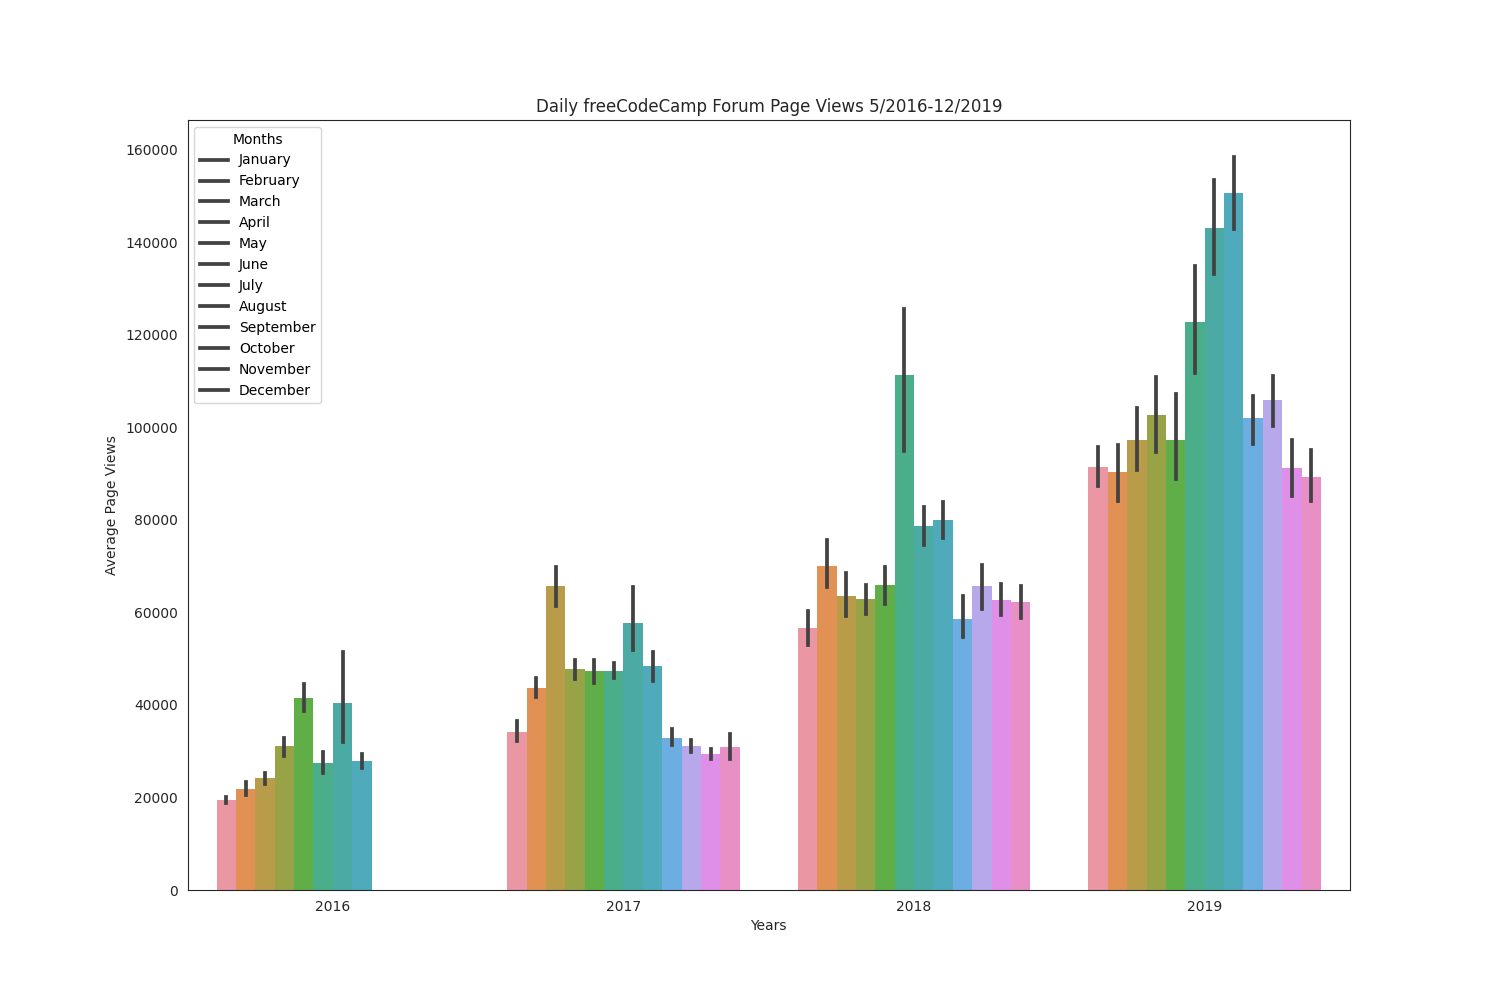
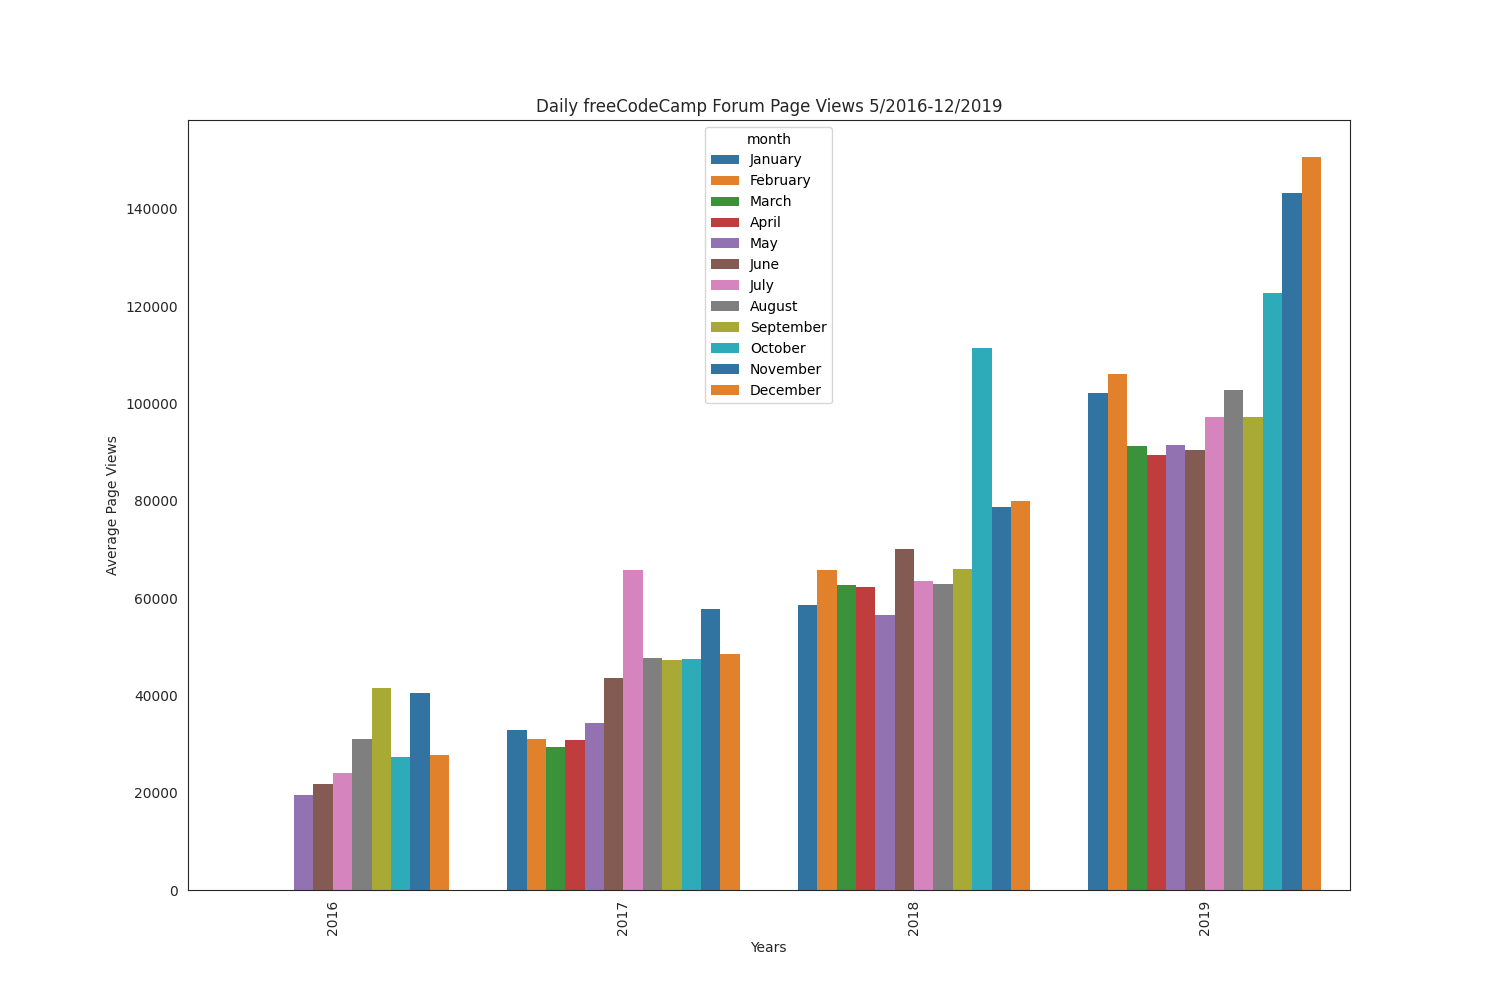
chore(test): refactor code and graph improvement

diff --git a/Python for Data Analysis/Page View Time Series Visualizer/time_series_visualizer.py b/Python for Data Analysis/Page View Time Series Visualizer/time_series_visualizer.py
@@ -5,26 +5,26 @@ from pandas.plotting import register_matplotlib_converters
 
 register_matplotlib_converters()
 
-# Import data (Make sure to parse dates. Consider setting index column to 'date'.)
-df = pd.read_csv('fcc-forum-pageviews.csv', parse_dates=['date'], index_col='date')
+# Import data (Make sure to parse dates. Consider setting index column to "date".)
+df = pd.read_csv("fcc-forum-pageviews.csv", parse_dates=["date"], index_col="date")
 
 # Clean data
-df = df.loc[(df['value'] >= df['value'].quantile(0.025)) & (df['value'] <= df['value'].quantile(0.975))]
+df = df.loc[(df["value"] >= df["value"].quantile(0.025)) & (df["value"] <= df["value"].quantile(0.975))]
 
 
 def draw_line_plot():
     # Draw line plot
 
     with sns.axes_style("white"):
-        fig, ax = plt.subplots(figsize=(7, 5))
+        fig, ax = plt.subplots(figsize=(30, 15), dpi=100)
 
-    ax = sns.lineplot(x='date', y='value', data=df)
-    ax.set_title('Daily freeCodeCamp Forum Page Views 5/2016-12/2019')
-    ax.set_xlabel('Date')
-    ax.set_ylabel('Page Views')
+    ax = sns.lineplot(x="date", y="value", data=df)
+    ax.set_title("Daily freeCodeCamp Forum Page Views 5/2016-12/2019")
+    ax.set_xlabel("Date")
+    ax.set_ylabel("Page Views")
 
-    # Save image and return fig (don't change this part)
-    fig.savefig('line_plot.png')
+    # Save image and return fig (don"t change this part)
+    fig.savefig("line_plot.png")
     return fig
 
 
@@ -34,20 +34,24 @@ def draw_bar_plot():
     df_bar["year"] = df.index.year
     df_bar["month"] = df.index.month_name()
 
+    df_bar = pd.DataFrame(df_bar.groupby(["year", "month"], sort=False)["value"].mean().round().astype(int))
+    df_bar = df_bar.reset_index()
+
+    hue_order = ["January", "February", "March", "April", "May", "June", "July", "August", "September", "October",
+                 "November", "December"]
 
     with sns.axes_style("white"):
         fig, ax = plt.subplots(figsize=(15, 10))
     # Draw bar plot
-    ax = sns.barplot(x='year', y='value', hue='month', data=df_bar)
-    ax.legend(labels=
-        ['January', 'February', 'March', 'April', 'May', 'June', 'July', 'August', 'September', 'October', 'November',
-         'December'], title='Months')
-    ax.set_title('Daily freeCodeCamp Forum Page Views 5/2016-12/2019')
-    ax.set_xlabel('Years')
-    ax.set_ylabel('Average Page Views')
+    ax = sns.barplot(x="year", y="value", hue="month", hue_order=hue_order, data=df_bar, palette="tab10")
+    ax.set_xticklabels(ax.get_xticklabels(), rotation=90, horizontalalignment="center")
 
-    # Save image and return fig (don't change this part)
-    fig.savefig('bar_plot.png')
+    ax.set_title("Daily freeCodeCamp Forum Page Views 5/2016-12/2019")
+    ax.set_xlabel("Years")
+    ax.set_ylabel("Average Page Views")
+
+    # Save image and return fig (don"t change this part)
+    fig.savefig("bar_plot.png")
     return fig
 
 
@@ -55,24 +59,24 @@ def draw_box_plot():
     # Prepare data for box plots (this part is done!)
     df_box = df.copy()
     df_box.reset_index(inplace=True)
-    df_box['year'] = [d.year for d in df_box.date]
-    df_box['month'] = [d.strftime('%b') for d in df_box.date]
+    df_box["year"] = [d.year for d in df_box.date]
+    df_box["month"] = [d.strftime("%b") for d in df_box.date]
 
     # Draw box plots (using Seaborn)
     with sns.axes_style("white"):
         fig, ax = plt.subplots(1, 2, figsize=(32, 10))
 
-    ax[0] = sns.boxplot(x='year', y='value', data=df_box, ax=ax[0])
+    ax[0] = sns.boxplot(x="year", y="value", data=df_box, ax=ax[0])
     ax[0].set_title("Year-wise Box Plot (Trend)")
     ax[0].set_xlabel("Year")
     ax[0].set_ylabel("Page Views")
 
     months = ["Jan", "Feb", "Mar", "Apr", "May", "Jun", "Jul", "Aug", "Sep", "Oct", "Nov", "Dec"]
-    ax[1] = sns.boxplot(x='month', y='value', order=months, data=df_box, ax=ax[1])
+    ax[1] = sns.boxplot(x="month", y="value", order=months, data=df_box, ax=ax[1])
     ax[1].set_title("Month-wise Box Plot (Seasonality)")
     ax[1].set_xlabel("Month")
     ax[1].set_ylabel("Page Views")
 
-    # Save image and return fig (don't change this part)
-    fig.savefig('box_plot.png')
+    # Save image and return fig (don"t change this part)
+    fig.savefig("box_plot.png")
     return fig

diff --git a/Python for Data Analysis/Medical Data Visualizer/medical_data_visualizer.py b/Python for Data Analysis/Medical Data Visualizer/medical_data_visualizer.py
@@ -4,41 +4,43 @@ import pandas as pd
 import seaborn as sns
 
 # Import data
-df = pd.read_csv('medical_examination.csv')
+df = pd.read_csv("medical_examination.csv")
 
-# Add 'overweight' column
-df['overweight'] = np.where((df['weight'] / np.power((df["height"] / 100), 2)) > 25, 1, 0)
+# Add "overweight" column
+df["overweight"] = np.where((df["weight"] / np.power((df["height"] / 100), 2)) > 25, 1, 0)
 
-# Normalize data by making 0 always good and 1 always bad. If the value of 'cholesterol' or 'gluc' is 1, make the value 0. If the value is more than 1, make the value 1.
+# Normalize data by making 0 always good and 1 always bad. If the value of "cholesterol" or "gluc" is 1,
+# make the value 0. If the value is more than 1, make the value 1.
 df["cholesterol"] = np.where((df["cholesterol"] <= 1), 0, 1)
 df["gluc"] = np.where((df["gluc"] <= 1), 0, 1)
 
 
 def draw_cat_plot():
-    # Group and reformat the data to split it by 'cardio'. Show the counts of each feature. You will have to rename one of the columns for the catplot to work correctly.
+    # Group and reformat the data to split it by "cardio". Show the counts of each feature.
+    # You will have to rename one of the columns for the catplot to work correctly.
 
-    # Draw the catplot with 'sns.catplot()'
-    df_cat = pd.melt(df[['cardio', 'active', 'alco', 'cholesterol', 'gluc', 'overweight', 'smoke']],
-                     id_vars=['cardio'],
-                     var_name='variable',
-                     value_name='value')
+    # Draw the catplot with "sns.catplot()"
+    df_cat = pd.melt(df[["cardio", "active", "alco", "cholesterol", "gluc", "overweight", "smoke"]],
+                     id_vars=["cardio"],
+                     var_name="variable",
+                     value_name="value")
 
-    fig = sns.catplot(x="variable", hue="value", col="cardio", data=df_cat, kind='count')
+    fig = sns.catplot(x="variable", hue="value", col="cardio", data=df_cat, kind="count")
     fig = fig.set_axis_labels("variable", "total").fig
 
     # Do not modify the next two lines
-    fig.savefig('catplot.png')
+    fig.savefig("catplot.png")
     return fig
 
 
 # Draw Heat Map
 def draw_heat_map():
     # Clean the data
-    df_heat = df.loc[(df['ap_lo'] <= df['ap_hi']) &
-                     (df['height'] >= df['height'].quantile(0.025)) &
-                     (df['height'] <= df['height'].quantile(0.975)) &
-                     (df['weight'] >= df['weight'].quantile(0.025)) &
-                     (df['weight'] <= df['weight'].quantile(0.975))]
+    df_heat = df.loc[(df["ap_lo"] <= df["ap_hi"]) &
+                     (df["height"] >= df["height"].quantile(0.025)) &
+                     (df["height"] <= df["height"].quantile(0.975)) &
+                     (df["weight"] >= df["weight"].quantile(0.025)) &
+                     (df["weight"] <= df["weight"].quantile(0.975))]
 
     # Calculate the correlation matrix
 
@@ -52,9 +54,9 @@ def draw_heat_map():
     with sns.axes_style("white"):
         fig, ax = plt.subplots(figsize=(15, 10))
 
-    # Draw the heatmap with 'sns.heatmap()'
+    # Draw the heatmap with "sns.heatmap()"
     ax = sns.heatmap(corr, mask=mask, square=True, annot=True, fmt=".1f")
 
     # Do not modify the next two lines
-    fig.savefig('heatmap.png')
+    fig.savefig("heatmap.png")
     return fig

diff --git a/Python for Data Analysis/Demographic Data Analyzer/demographic_data_analyzer.py b/Python for Data Analysis/Demographic Data Analyzer/demographic_data_analyzer.py
@@ -3,15 +3,16 @@ import pandas as pd
 
 def calculate_demographic_data(print_data=True):
     # Read data from file
-    df = pd.read_csv('adult.data.csv')
+    df = pd.read_csv("adult.data.csv")
 
-    # How many of each race are represented in this dataset? This should be a Pandas series with race names as the index labels.
+    # How many of each race are represented in this dataset?
+    # This should be a Pandas series with race names as the index labels.
     race_count = df["race"].value_counts()
 
     # What is the average age of men?
     average_age_men = df.loc[df["sex"] == "Male", "age"].mean().round(1)
 
-    # What is the percentage of people who have a Bachelor's degree?
+    # What is the percentage of people who have a Bachelor"s degree?
     percentage_bachelors = round((df.loc[df["education"] == "Bachelors"].shape[0] / df.shape[0]) * 100, 1)
 
     # What percentage of people with advanced education (`Bachelors`, `Masters`, or `Doctorate`) make more than 50K?
@@ -45,7 +46,7 @@ def calculate_demographic_data(print_data=True):
             0]).round(1)
 
     # Identify the most popular occupation for those who earn >50K in India.
-    top_IN_occupation = df.loc[(df["salary"] == ">50K") & (df["native-country"] == "India"), "occupation"].value_counts(
+    top_in_occupation = df.loc[(df["salary"] == ">50K") & (df["native-country"] == "India"), "occupation"].value_counts(
         normalize=True).idxmax()
 
     # DO NOT MODIFY BELOW THIS LINE
@@ -60,18 +61,18 @@ def calculate_demographic_data(print_data=True):
         print(f"Percentage of rich among those who work fewest hours: {rich_percentage}%")
         print("Country with highest percentage of rich:", highest_earning_country)
         print(f"Highest percentage of rich people in country: {highest_earning_country_percentage}%")
-        print("Top occupations in India:", top_IN_occupation)
+        print("Top occupations in India:", top_in_occupation)
 
     return {
-        'race_count': race_count,
-        'average_age_men': average_age_men,
-        'percentage_bachelors': percentage_bachelors,
-        'higher_education_rich': higher_education_rich,
-        'lower_education_rich': lower_education_rich,
-        'min_work_hours': min_work_hours,
-        'rich_percentage': rich_percentage,
-        'highest_earning_country': highest_earning_country,
-        'highest_earning_country_percentage':
+        "race_count": race_count,
+        "average_age_men": average_age_men,
+        "percentage_bachelors": percentage_bachelors,
+        "higher_education_rich": higher_education_rich,
+        "lower_education_rich": lower_education_rich,
+        "min_work_hours": min_work_hours,
+        "rich_percentage": rich_percentage,
+        "highest_earning_country": highest_earning_country,
+        "highest_earning_country_percentage":
             highest_earning_country_percentage,
-        'top_IN_occupation': top_IN_occupation
+        "top_IN_occupation": top_in_occupation
     }

diff --git a/Python for Data Analysis/Sea Level Predictor/boilerplate-sea-level-predictor/sea_level_predictor.py b/Python for Data Analysis/Sea Level Predictor/boilerplate-sea-level-predictor/sea_level_predictor.py
@@ -5,30 +5,32 @@ from scipy.stats import linregress
 
 def draw_plot():
     # Read data from file
-    df = pd.read_csv('epa-sea-level.csv', float_precision='legacy')
+    df = pd.read_csv("epa-sea-level.csv", float_precision="legacy")
 
     # Create scatter plot
-    x = df['Year']
-    y = df['CSIRO Adjusted Sea Level']
+    x = df["Year"]
+    y = df["CSIRO Adjusted Sea Level"]
 
-    fig, ax = plt.subplots()
+    fig, ax = plt.subplots(figsize=(15, 15))
     ax.scatter(x, y)
 
     # Create first line of best fit
-    first_year = df['Year'].loc[df['Year'].idxmin()]
+    first_year = df["Year"].loc[df["Year"].idxmin()]
     res1 = linregress(x, y)
-    ax.plot(range(first_year, 2051), res1.intercept + res1.slope * range(df['Year'].min(), 2051), 'r')
+    # using 2051 because of new pandas version
+    ax.plot(range(first_year, 2051), res1.intercept + res1.slope * range(df["Year"].min(), 2051), "r")
 
     # Create second line of best fit
-    res2 = linregress(df.loc[(df.Year >= 2000), 'Year'].values,
-                      df.loc[(df.Year >= 2000), 'CSIRO Adjusted Sea Level'].values)
-    ax.plot(range(2000, 2051), res2.intercept + res2.slope * range(2000, 2051), 'r')
+    res2 = linregress(df.loc[(df.Year >= 2000), "Year"].values,
+                      df.loc[(df.Year >= 2000), "CSIRO Adjusted Sea Level"].values)
+    # using 2051 because of new pandas version
+    ax.plot(range(2000, 2051), res2.intercept + res2.slope * range(2000, 2051), "g")
 
     # Add labels and title
     ax.set_title("Rise in Sea Level")
-    ax.set_xlabel('Year')
-    ax.set_ylabel('Sea Level (inches)')
+    ax.set_xlabel("Year")
+    ax.set_ylabel("Sea Level (inches)")
 
     # Save plot and return data for testing (DO NOT MODIFY)
-    plt.savefig('sea_level_plot.png')
+    plt.savefig("sea_level_plot.png")
     return plt.gca()

diff --git a/Python for Data Analysis/Mean-Variance-Standard Deviation Calculator/mean_var_std.py b/Python for Data Analysis/Mean-Variance-Standard Deviation Calculator/mean_var_std.py
@@ -4,12 +4,12 @@ import numpy as np
 def calculate(array):
     if len(array) != 9:
         raise ValueError("List must contain nine numbers.")
-    list = np.array(array).reshape(3, 3)
+    np_array = np.array(array).reshape(3, 3)
     return {
-        'mean': [list.mean(axis=0).tolist(), list.mean(axis=1).tolist(), list.mean()],
-        'variance': [list.var(axis=0).tolist(), list.var(axis=1).tolist(), list.var()],
-        'standard deviation': [list.std(axis=0).tolist(), list.std(axis=1).tolist(), list.std()],
-        'max': [list.max(axis=0).tolist(), list.max(axis=1).tolist(), list.max()],
-        'min': [list.min(axis=0).tolist(), list.min(axis=1).tolist(), list.min()],
-        'sum': [list.sum(axis=0).tolist(), list.sum(axis=1).tolist(), list.sum()]
+        "mean": [np_array.mean(axis=0).tolist(), np_array.mean(axis=1).tolist(), np_array.mean()],
+        "variance": [np_array.var(axis=0).tolist(), np_array.var(axis=1).tolist(), np_array.var()],
+        "standard deviation": [np_array.std(axis=0).tolist(), np_array.std(axis=1).tolist(), np_array.std()],
+        "max": [np_array.max(axis=0).tolist(), np_array.max(axis=1).tolist(), np_array.max()],
+        "min": [np_array.min(axis=0).tolist(), np_array.min(axis=1).tolist(), np_array.min()],
+        "sum": [np_array.sum(axis=0).tolist(), np_array.sum(axis=1).tolist(), np_array.sum()]
     }
